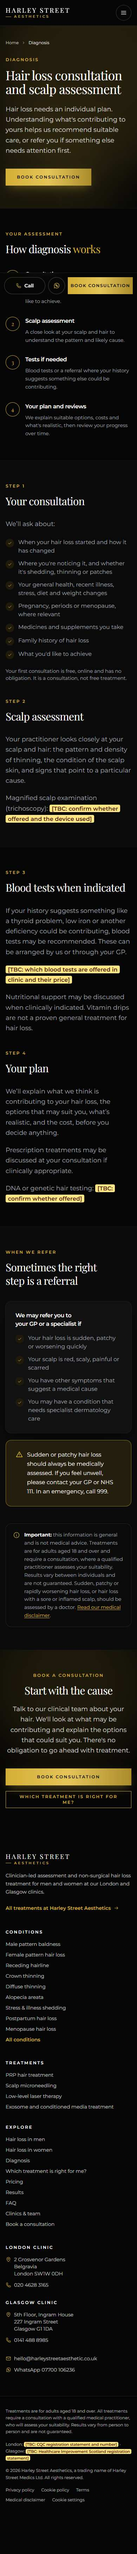
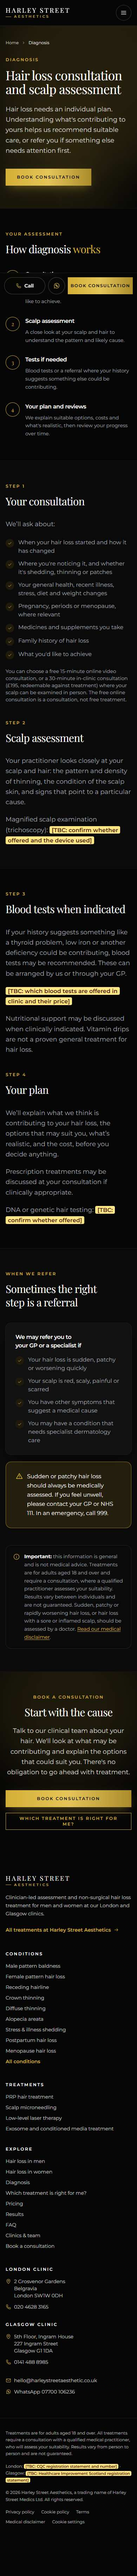
Add medical team, consultation options and deposit from the main website
Team, consultation prices (free online, £195 in clinic) and the £50 deposit taken from harleystreetaesthetic.co.uk. Placeholders 41 -> 35. Docs updated.

Changed region(s): [[0.0308, 0.0, 0.9538, 0.9967]]

diff --git a/src/components/sections.tsx b/src/components/sections.tsx
@@ -1,5 +1,5 @@
 import Link from "next/link";
-import { BRAND, CLINIC_LIST } from "@/lib/site";
+import { BRAND, CLINIC_LIST, TEAM } from "@/lib/site";
 import { ClinicTabs } from "./location";
 import { Icon } from "./Icon";
 import { Button, Section, SectionHeading, Tbc } from "./ui";
@@ -77,26 +77,35 @@ export function ResultsPlaceholder() {
   );
 }
 
-export function TeamPlaceholder() {
+/** Medical team from the main site's team pages. */
+export function TeamGrid({ limit }: { limit?: number }) {
+  const people = limit ? TEAM.slice(0, limit) : TEAM;
   return (
-    <div className="grid gap-5 md:grid-cols-3">
-      {[1, 2, 3].map((n) => (
-        <div key={n} className="rounded-2xl border border-cream/10 bg-card p-7 shadow-card">
-          <span className="flex h-16 w-16 items-center justify-center rounded-full bg-black-soft text-gold">
-            <Icon name="user" className="h-7 w-7" />
-          </span>
-          <p className="mt-5 font-serif text-2xl text-cream">
-            <Tbc>practitioner name</Tbc>
-          </p>
-          <p className="mt-2 text-sm text-stone">
-            <Tbc>role, qualifications and GMC number</Tbc>
-          </p>
-          <p className="mt-3 text-sm text-stone">
-            <Tbc>short bio and photo (with permission)</Tbc>
-          </p>
-        </div>
-      ))}
-    </div>
+    <>
+      <ul className="grid gap-5 md:grid-cols-2 lg:grid-cols-3">
+        {people.map((p) => (
+          <li key={p.name} className="rounded-2xl border border-cream/10 bg-card p-7 shadow-card">
+            <span aria-hidden="true" className="flex h-16 w-16 items-center justify-center rounded-full border border-gold/40 bg-black-soft font-serif text-xl text-gold">
+              {p.name.replace(/^(Mr|Dr) /, "").split(" ").map((w) => w[0]).join("").slice(0, 2)}
+            </span>
+            <h3 className="mt-5 font-serif text-2xl text-cream">{p.name}</h3>
+            <p className="mt-1 text-sm font-semibold text-gold">
+              {p.role}
+              {p.post && <span className="font-normal text-stone"> · {p.post}</span>}
+            </p>
+            <p className="mt-1 text-xs tracking-[0.15em] text-stone uppercase">{p.clinics}</p>
+            <p className="mt-4 text-sm leading-relaxed text-stone">{p.bio}</p>
+          </li>
+        ))}
+      </ul>
+      <p className="mt-6 text-sm text-stone">
+        Our team is GMC-registered.{" "}
+        <a href={`${BRAND.mainSite}/london/team`} className="text-gold underline underline-offset-2 hover:text-cream">
+          Read full profiles on our main website
+        </a>
+        . <Tbc>which team members see hair loss patients, and GMC numbers</Tbc>
+      </p>
+    </>
   );
 }
 

diff --git a/src/lib/site.ts b/src/lib/site.ts
@@ -60,6 +60,53 @@ export const CLINICS: Record<ClinicId, Clinic> = {
 
 export const CLINIC_LIST = [CLINICS.london, CLINICS.glasgow];
 
+// Medical team as listed on harleystreetaesthetic.co.uk/london/team and /glasgow/team (2 Nov 2026).
+// Which of them see hair loss patients is not stated there (docs/open-questions.md).
+export const TEAM = [
+  {
+    name: "Mr Khalil Al-Nakib",
+    post: "FRCSEd",
+    role: "Consultant Plastic Surgeon",
+    clinics: "London and Glasgow",
+    bio: "Consultant Plastic Surgeon with experience in reconstruction, trauma and burns, and in the use of lasers. Fellow of the Royal College of Surgeons of Edinburgh.",
+  },
+  {
+    name: "Dr Ayda Soltanzadeh",
+    post: "",
+    role: "Consultant Dermatologist",
+    clinics: "London and Glasgow",
+    bio: "Consultant Dermatologist with a background in clinical dermatology and a meticulous approach to aesthetic medicine.",
+  },
+  {
+    name: "Dr Nina Ku",
+    post: "",
+    role: "Dermatologist",
+    clinics: "London",
+    bio: "Dermatologist with an international clinical background and a particular interest in dermoscopy, skin cancer screening and minor dermatological procedures.",
+  },
+  {
+    name: "Dr Afraa Mohammed",
+    post: "MBBS, MD (Dermatology)",
+    role: "Dermatologist",
+    clinics: "London",
+    bio: "Dermatologist with more than 12 years of experience in dermatology and aesthetic medicine.",
+  },
+  {
+    name: "Dr Mazhar Khan",
+    post: "MBBS, MRCGP, DRCOG, DFFP",
+    role: "Medical Doctor",
+    clinics: "London",
+    bio: "Medical doctor with over 23 years of clinical experience, including more than 20 years as a GP in NHS and private practice.",
+  },
+] as const;
+
+/** Consultation options from harleystreetaesthetic.co.uk/london/pricing (Consultations tab, 2 Nov 2026). */
+export const CONSULTATIONS = {
+  online: { price: "Free", time: "15 minutes", detail: "Video assessment, medical history review and preliminary advice. No obligation." },
+  inClinic: { price: "£195", time: "30 minutes", detail: "Full assessment, medical history review and a bespoke treatment plan. Redeemable against treatment." },
+  deposit: "A £50 deposit is required to secure appointments. It is fully redeemable against your treatment cost. If you decide not to go ahead after your consultation, it is refundable provided you give 48 hours' notice.",
+};
+
 export const TRACKING = {
   gtmId: process.env.NEXT_PUBLIC_GTM_ID ?? "",
   ga4Id: process.env.NEXT_PUBLIC_GA4_ID ?? "",

diff --git a/src/app/pricing/page.tsx b/src/app/pricing/page.tsx
@@ -2,7 +2,7 @@ import Link from "next/link";
 import { CtaBand } from "@/components/sections";
 import { CheckList, Disclaimer, PageHero, Section, SectionHeading, Tbc } from "@/components/ui";
 import { pageMetadata } from "@/lib/seo";
-import { BRAND } from "@/lib/site";
+import { BRAND, CONSULTATIONS } from "@/lib/site";
 import { TREATMENTS } from "@/lib/treatments";
 
 export const metadata = pageMetadata({
@@ -43,11 +43,24 @@ export default function PricingPage() {
               <tr>
                 <th scope="row" className="p-5 font-serif text-lg font-normal text-cream">
                   <Link href="/diagnosis/" className="hover:text-gold">
-                    Hair loss consultation
+                    Online consultation
                   </Link>
                 </th>
-                <td className="p-5 text-cream">Free</td>
-                <td className="p-5 text-sm text-stone">Online, with no obligation to go ahead</td>
+                <td className="p-5 text-cream">{CONSULTATIONS.online.price}</td>
+                <td className="p-5 text-sm text-stone">
+                  {CONSULTATIONS.online.time}. {CONSULTATIONS.online.detail}
+                </td>
+              </tr>
+              <tr>
+                <th scope="row" className="p-5 font-serif text-lg font-normal text-cream">
+                  <Link href="/diagnosis/" className="hover:text-gold">
+                    In-clinic consultation
+                  </Link>
+                </th>
+                <td className="p-5 text-cream">{CONSULTATIONS.inClinic.price}</td>
+                <td className="p-5 text-sm text-stone">
+                  {CONSULTATIONS.inClinic.time}. {CONSULTATIONS.inClinic.detail}
+                </td>
               </tr>
               {TREATMENTS.map((t) => (
                 <tr key={t.slug}>
@@ -87,7 +100,7 @@ export default function PricingPage() {
                 "Your practitioner recommends a plan only after assessing you.",
                 "You'll receive the full cost of your plan before you agree to anything.",
                 "There is no obligation to go ahead with treatment after your consultation.",
-                <>Deposit and cancellation terms: <Tbc>deposit and cancellation policy for hair loss appointments</Tbc></>,
+                CONSULTATIONS.deposit,
               ]}
             />
           </div>

diff --git a/src/app/page.tsx b/src/app/page.tsx
@@ -2,7 +2,7 @@ import Link from "next/link";
 import { ConditionCard, FaqAccordion, StepTimeline, TreatmentCard } from "@/components/cards";
 import { FollicleArt } from "@/components/FollicleArt";
 import { Icon } from "@/components/Icon";
-import { ClinicsSection, CtaBand, ResultsPlaceholder, ReviewsSection, TeamPlaceholder } from "@/components/sections";
+import { ClinicsSection, CtaBand, ResultsPlaceholder, ReviewsSection, TeamGrid } from "@/components/sections";
 import { Button, CheckList, Disclaimer, JsonLd, Section, SectionHeading, Tbc } from "@/components/ui";
 import { CONDITIONS, DIAGNOSIS_STEPS, PATTERNS, RX_SENTENCE } from "@/lib/conditions";
 import { GENERAL_FAQS } from "@/lib/faqs";
@@ -162,11 +162,12 @@ export default function Home() {
           title={<>Assessed by qualified <span className="text-gold">practitioners</span></>}
           intro={
             <>
-              Your consultation is with a member of our medical team. <Tbc>confirm who leads hair loss consultations and their registration</Tbc>
+              Your consultation is with a member of our GMC-registered medical team of consultant dermatologists, a plastic surgeon and
+              doctors.
             </>
           }
         />
-        <TeamPlaceholder />
+        <TeamGrid limit={3} />
       </Section>
 
       <Section tone="soft" labelledBy="pricing-title">
@@ -181,7 +182,7 @@ export default function Home() {
             />
             <CheckList
               items={[
-                <>Consultation: free and online, with no obligation</>,
+                <>Consultation: free online (15 minutes) or £195 in clinic (30 minutes, redeemable against treatment)</>,
                 <>PRP: <Tbc>price per session / course</Tbc></>,
                 <>Finance: Klarna, Clearpay and Ideal4Finance options, subject to status (18+, UK residents)</>,
               ]}

diff --git a/src/app/about/page.tsx b/src/app/about/page.tsx
@@ -1,4 +1,4 @@
-import { ClinicCards, CtaBand, TeamPlaceholder } from "@/components/sections";
+import { ClinicCards, CtaBand, TeamGrid } from "@/components/sections";
 import { CheckList, Disclaimer, JsonLd, PageHero, Section, SectionHeading, Tbc } from "@/components/ui";
 import { clinicsSchema } from "@/lib/schema";
 import { pageMetadata } from "@/lib/seo";
@@ -58,9 +58,9 @@ export default function AboutPage() {
           id="team-title"
           eyebrow="Our team"
           title="The people you'll see"
-          intro={<>Practitioner details will be added once confirmed. <Tbc>names, roles, GMC numbers, bios and photo permission</Tbc></>}
+          intro="Our GMC-registered medical team works across our London and Glasgow clinics."
         />
-        <TeamPlaceholder />
+        <TeamGrid />
       </Section>
       <Section labelledBy="reg-title">
         <SectionHeading id="reg-title" eyebrow="Regulation" title="Registration and standards" />
@@ -68,7 +68,7 @@ export default function AboutPage() {
           items={[
             <>London: <Tbc>CQC registration statement and number</Tbc></>,
             <>Glasgow: <Tbc>Healthcare Improvement Scotland registration statement and number</Tbc></>,
-            <>Practitioners: <Tbc>professional registrations (GMC/NMC) for each hair loss practitioner</Tbc></>,
+            <>Practitioners: GMC-registered doctors. <Tbc>GMC numbers for each hair loss practitioner</Tbc></>,
           ]}
         />
       </Section>

diff --git a/src/app/terms/page.tsx b/src/app/terms/page.tsx
@@ -1,7 +1,6 @@
 import { LegalPage } from "@/components/LegalPage";
-import { Tbc } from "@/components/ui";
 import { pageMetadata } from "@/lib/seo";
-import { BRAND } from "@/lib/site";
+import { BRAND, CONSULTATIONS } from "@/lib/site";
 
 export const metadata = pageMetadata({
   title: "Terms of Use",
@@ -21,9 +20,9 @@ export default function TermsPage() {
       <p>Any prices shown are a guide and are confirmed at consultation. We may change prices.</p>
       <h2>Bookings and cancellations</h2>
       <p>
-        Your first consultation is free and online. If you book a treatment remotely (online, by phone or by message), you have a
+        You can choose a free online consultation or an in-clinic consultation (£195, redeemable against treatment). {CONSULTATIONS.deposit} If you book a treatment remotely (online, by phone or by message), you have a
         14-day right to cancel, which we&rsquo;ll confirm in writing, and you won&rsquo;t pay for treatment if your practitioner finds
-        it unsuitable for you. <Tbc>deposit amount and cancellation notice period for hair loss appointments</Tbc>
+        it unsuitable for you.
       </p>
       <h2>Content</h2>
       <p>

diff --git a/src/lib/faqs.ts b/src/lib/faqs.ts
@@ -31,7 +31,7 @@ export const GENERAL_FAQS: Faq[] = [
   },
   {
     q: "How much does treatment cost?",
-    a: "Your first consultation is free and online. Treatment prices depend on the treatment and the number of sessions, and your plan and its cost are confirmed in writing after your consultation. Finance options are available, subject to status.",
+    a: "You can have a free online consultation or a £195 in-clinic consultation, which is redeemable against treatment. Treatment prices depend on the treatment and the number of sessions, and your plan and its cost are confirmed in writing after your consultation. Finance options are available, subject to status.",
   },
   {
     q: "Where are your clinics?",

diff --git a/src/app/diagnosis/page.tsx b/src/app/diagnosis/page.tsx
@@ -50,7 +50,8 @@ export default function DiagnosisPage() {
               ]}
             />
             <p className="mt-6 text-sm text-stone">
-              Your first consultation is free, online and has no obligation. It is a consultation, not free treatment.
+              You can choose a free 15-minute online video consultation, or a 30-minute in-clinic consultation (£195, redeemable against
+              treatment) where your scalp can be examined in person. The free online consultation is a consultation, not free treatment.
             </p>
           </div>
           <div>

diff --git a/docs/review-checklist.md b/docs/review-checklist.md
@@ -1,6 +1,8 @@
 # Review checklist
 
-_Updated 2 Nov 2026 after the Copilot research: re-ran build, lint, typecheck, links, compliance scan, 17 browser tests and Lighthouse (home 97, PRP 95, pricing 98 mobile performance; 100 accessibility and best practices). Placeholders reduced from 51 to 41; 10 Harley Street removed (not seeing patients)._
+_Updated 2 Nov 2026 after the Copilot research: re-ran build, lint, typecheck, links, compliance scan, 17 browser tests and Lighthouse (home 97, PRP 95, pricing 98 mobile performance; 100 accessibility and best practices). Placeholders reduced from 51 to 41; 10 Harley Street removed (not seeing patients). Then, from the main website: medical team, consultation prices (free online / £195 in clinic) and £50 deposit added; placeholders now 35._
+
+**Check:** the team, consultation prices and deposit come from the general main-site pages, not hair-specific sources. Confirm they apply to hair loss, and which team members see hair patients.
 
 Everything here needs a human check before launch. Run `npm run check` to rebuild and re-run every automated check, and `npm run check:tbc` to list the placeholders still on the site.
 
@@ -62,7 +64,7 @@ Automated scan plus a manual read of every page. Things for your compliance lead
 
 ## 3. Placeholders to fill (`[TBC]`, amber on the page)
 
-41 unique placeholders. Copilot doesn't document these; they need the clinic manager, compliance lead or website/CRM admin (see `docs/open-questions.md`).
+35 unique placeholders. Copilot doesn't document these; they need the clinic manager, compliance lead or website/CRM admin (see `docs/open-questions.md`).
 
 | Placeholder | Pages |
 |---|---|
@@ -76,30 +78,23 @@ Automated scan plus a manual read of every page. Things for your compliance lead
 | confirm whether offered | /diagnosis/, /treatments/ |
 | confirm whether offered and the device used | /diagnosis/ |
 | confirm whether prices are the same at both clinics | /pricing/ |
-| confirm who leads hair loss consultations and their registration | / |
 | consented before and after photos (pattern hair loss) | /, /results/ |
 | consented before and after photos (thinning crown) | /, /results/ |
 | CQC registration statement | /london/ |
 | CQC registration statement and number | /404/, /about/, /book/ +36 more |
-| deposit amount and cancellation notice period for hair loss appointments | /terms/ |
-| deposit and cancellation policy for hair loss appointments | /pricing/ |
 | exosome treatment price | /pricing/, /treatments/exosome-hair-treatment/ |
 | FCA credit broker statement and representative example, if required | /pricing/ |
 | frequency and course length | /treatments/low-level-laser-therapy/ |
+| GMC numbers for each hair loss practitioner | /about/ |
 | Healthcare Improvement Scotland registration statement | /404/, /about/, /book/ +36 more |
 | Healthcare Improvement Scotland registration statement and number | /about/ |
 | hosting and form provider, e.g. Netlify | /privacy-policy/ |
 | LLLT device (in clinic or home use) | /treatments/low-level-laser-therapy/ |
 | LLLT price | /pricing/, /treatments/low-level-laser-therapy/ |
 | microneedling device used on the scalp | /treatments/scalp-microneedling/ |
-| names, roles, GMC numbers, bios and photo permission | /about/ |
-| practitioner name | /about/, / |
 | price per session / course | /, /treatments/prp-hair-treatment/, /treatments/scalp-microneedling/ |
-| professional registrations (GMC/NMC) for each hair loss practitioner | /about/ |
 | PRP price per session and course | /pricing/ |
-| role, qualifications and GMC number | /about/, / |
 | scalp microneedling price | /pricing/ |
-| short bio and photo (with permission) | /about/, / |
 | verified Google review rating, count and link, plus hair loss testimonials with written permission | /, /results/ |
 | whether beard and eyebrow treatments are offered | /conditions/beard-and-eyebrow-thinning/ |
 | whether post-chemotherapy hair support is offered | /conditions/hair-loss-after-chemotherapy/ |
@@ -107,6 +102,7 @@ Automated scan plus a manual read of every page. Things for your compliance lead
 | which blood tests are offered in clinic and their price | /diagnosis/ |
 | which blood tests are offered in clinic, and the price | /conditions/medical-causes/ |
 | which scalp treatments are offered in clinic | /conditions/scalp-conditions/ |
+| which team members see hair loss patients, and GMC numbers | /about/, / |
 
 Where the data lives: prices and facts in `src/lib/treatments.ts` (`facts`, `priceTbc`, `aftercareTbc`), condition notes in `src/lib/conditions.ts` (`offeredTbc`), clinics and contact details in `src/lib/site.ts`, team/reviews/results placeholders in `src/components/sections.tsx`, regulator lines in `src/components/Footer.tsx` and `src/components/LocationPage.tsx`.
 

diff --git a/docs/open-questions.md b/docs/open-questions.md
@@ -1,5 +1,7 @@
 # Open questions
 
+_Also checked harleystreetaesthetic.co.uk on 2 Nov 2026 (see research.md §9). Main-site footer links to Privacy Policy and Terms are broken (`#`), worth fixing there._
+
 Updated 2 November 2026 after reading the company Copilot. Everything still open is shown on the site as an amber `[TBC: …]` placeholder, or left out. Run `npm run check:tbc` for the live list.
 
 ## Biggest gap
@@ -18,17 +20,17 @@ Updated 2 November 2026 after reading the company Copilot. Everything still open
 9. **Hair Rejuvenation IV Drip (£295)** is in the playbook but not on the site, because your own Facebook posts say vitamin drips aren't a proven general treatment for hair loss. Confirm it should stay off.
 10. Do we offer trichoscopy, blood tests, DNA testing, mesotherapy for hair, scalp micropigmentation, or prescription treatments? None are documented. Transplants are not offered.
 11. Which conditions do we refer (scarring alopecia, alopecia areata, post-chemotherapy, beard/eyebrow), and to whom?
-12. The consultation is free and online. How is the **scalp assessment** done: by video/photos, or in clinic afterwards?
+12. ✅ Resolved from the main site: a free 15-minute online video consultation, or £195 for 30 minutes in clinic (redeemable). Confirm both apply to hair loss.
 
 ## Booking, enquiries and tracking
 13. Booking calendar for hair (the Endolift calendar `link.harleystreetaesthetic.co.uk/widget/bookings/aesthetic-consultant-1` is shown as a fallback, flagged TBC).
 14. Enquiry form destination (CRM / webhook / email). Currently Netlify Forms with a TODO.
 15. GA4, GTM and Meta Pixel IDs.
-16. Deposit amount and cancellation notice period for hair appointments (only the eye funnel documents a £50 deposit).
+16. ✅ Resolved from the main site: a £50 deposit secures all appointments. It is redeemable, and refundable with 48 hours' notice. Confirm this applies to hair.
 17. Finance: the FCA credit-broker statement and any representative example needed for Ideal4Finance.
 
 ## People, proof and regulation
-18. Who does hair loss consultations and treatments? Names, roles, GMC/NMC numbers, bios, photo permission. ("Dr Ahmad" appears in the Facebook hair video, but Copilot only documents him for pigmentation.)
+18. The main site's team (Al-Nakib, Soltanzadeh, Ku, Mohammed, Khan) is now on the hair site. Still open: which of them see hair loss patients, GMC numbers, photo permission, and who "Dr Ahmad" (Facebook hair video) is. He isn't on the main site team page.
 19. CQC (London) and Healthcare Improvement Scotland (Glasgow) wording and numbers. Not documented in Copilot.
 20. Before/after photos: the playbook says "clinic before/after photos exist for exosome hair regrowth". Do we have written consent for web use?
 21. Google rating, review count and link; hair loss testimonials with permission.

diff --git a/docs/research.md b/docs/research.md
@@ -121,5 +121,13 @@ I asked the Copilot chat in all three workspaces (Aesthetics, Wellness, Medics),
 - **Dr Ahmad** fronts the pigmentation adverts. No GMC number, profile or hair loss role documented.
 - **Not documented anywhere:** CQC/HIS wording and numbers, practitioner directory and GMC/NMC numbers, booking URL, enquiry destination, GA4/GTM/Pixel IDs, Google rating, opening hours.
 
+## 9. Main site follow-up (2 Nov 2026, at your request)
+From harleystreetaesthetic.co.uk, rendered in a headless browser:
+- **Consultations** (London pricing → Consultations tab): Online Consultation **Free**, 15 minutes (video assessment, medical history review, preliminary advice, no obligation). In-Clinic Consultation **£195**, 30 minutes (full assessment, bespoke plan, redeemable against treatment). 3D Skin Analysis £50 (not relevant to hair).
+- **Deposit:** "A deposit of £50 is required to secure all appointments, which is fully redeemable against your treatment cost." The pricing FAQ says it's refundable if you don't proceed after consultation, provided 48 hours' notice is given.
+- **Finance:** Klarna (pay in 3), Clearpay (pay in 4), interest-free finance up to 12 months for purchases over £1,000.
+- **Team** (/london/team, /glasgow/team): Mr Khalil Al-Nakib FRCSEd (Consultant Plastic Surgeon, London and Glasgow), Dr Ayda Soltanzadeh (Consultant Dermatologist, London and Glasgow), Dr Nina Ku (Dermatologist), Dr Afraa Mohammed MBBS MD (Dermatologist), Dr Mazhar Khan MBBS MRCGP DRCOG DFFP (Medical Doctor). Described as GMC-registered; no GMC numbers; no hair loss role stated. Bios on the hair site are shortened from these pages.
+- **Not on the main site:** hair loss treatments or prices, CQC/HIS wording, GMC numbers, tracking IDs (no GA4, GTM or Meta Pixel requests seen when the page loaded). The footer "Privacy Policy" and "Terms of Service" links point to `#` (broken), and `/privacy-policy` returns 404. Worth fixing on the main site.
+
 ## 7. Not available yet (see open-questions.md)
 Everything from Copilot: confirmed treatment list, devices/products, sessions, prices, consultation fee, packages, finance, practitioners and GMC numbers, CQC/HIS numbers, testimonials, before/after photos and consent, booking link for hair, enquiry destination, GA4/GTM/Pixel IDs, brand voice notes, competitors.

diff --git a/docs/decisions.md b/docs/decisions.md
@@ -24,4 +24,5 @@
 | 21 | 2026-11-02 | Used the Medics Copilot hair playbook for the treatment list and protocol facts, but not its prices. | It's the only hair playbook; the brief says Medics hair content is outdated, but its treatments match the clinic's current Facebook posts. Prices stay TBC until confirmed for HSA. |
 | 22 | 2026-11-02 | "Doctor-led" → "clinician-led"; consultation shown as free and online; 10 Harley Street removed. | Copilot: free online consultation must not be called a doctor appointment; no hair practitioner is documented; 10 Harley Street isn't seeing patients. |
 | 23 | 2026-11-02 | Hair Rejuvenation IV Drip left off the site. | The clinic's own Facebook posts say vitamin drips aren't a proven general treatment for hair loss. |
+| 24 | 2026-11-02 | Show the main site's medical team, consultation options (free online 15 min / £195 in clinic) and £50 deposit on the hair site. | You asked me to use the main website; these are published there. Bios are shortened, initials used instead of photos, and "which team members see hair patients" stays TBC. |
 | 17 | 2026-11-02 | Netlify is the primary host (`netlify.toml`), with Vercel as an alternative. | Brief. Note: the Endolift build is currently on a Hostinger preview, so `docs/deployment.md` also covers Hostinger. |
